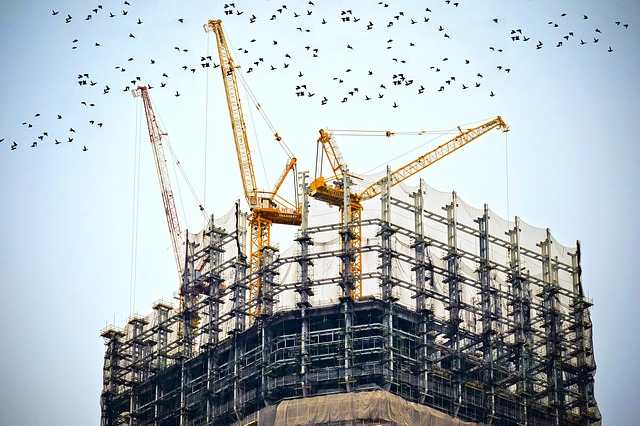
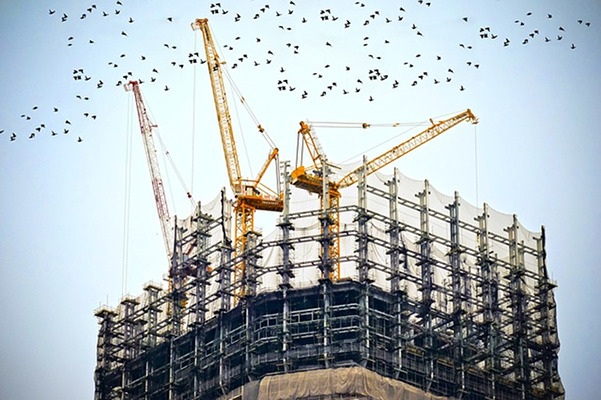
cropped images

diff --git a/public/javascript/main.js b/public/javascript/main.js
@@ -1,0 +1,6 @@
+
+function focusElem (){
+    document.querySelector('.file').scrollIntoView(true)
+    // document.getElementById('hi').scrollIntoView(true);
+
+}

diff --git a/public/css/main-style.css b/public/css/main-style.css
@@ -175,6 +175,10 @@ left:0%;
 left:10%;
 }
 
+.footer-three a:hover {
+color: silver;
+}
+
 .facebook i{
     background-color:#3b5998;
     width:50px;
